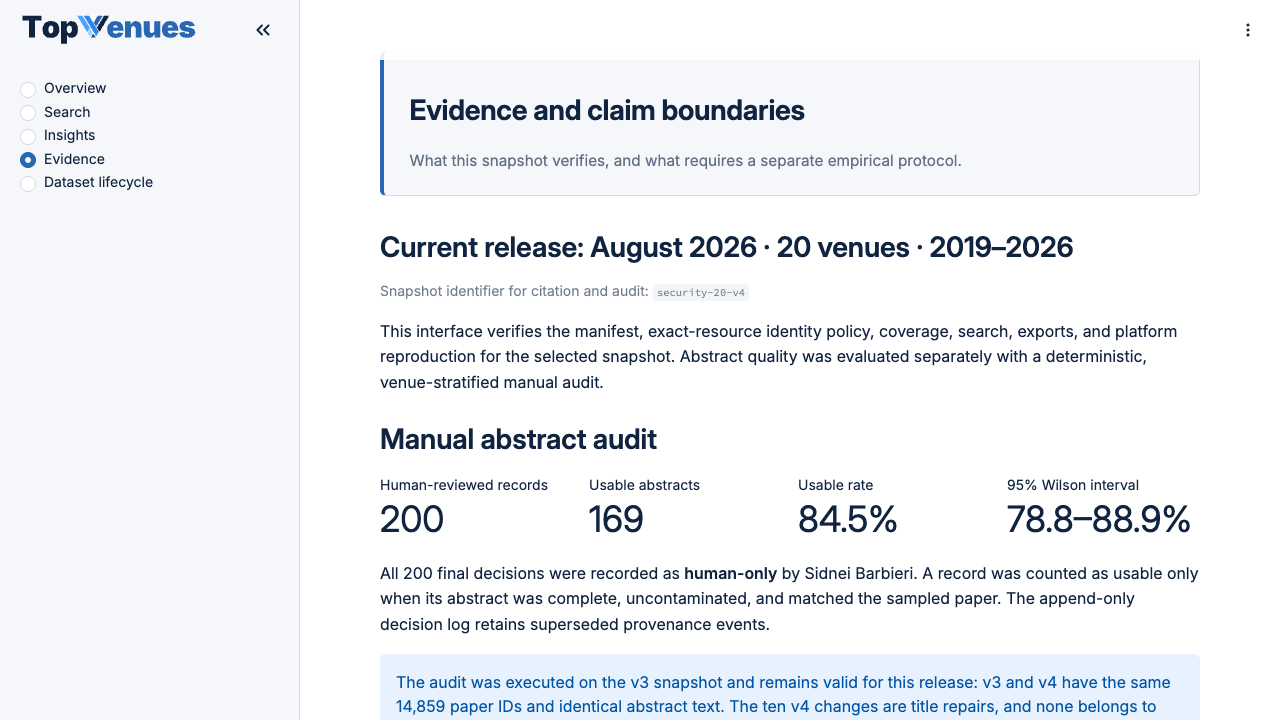
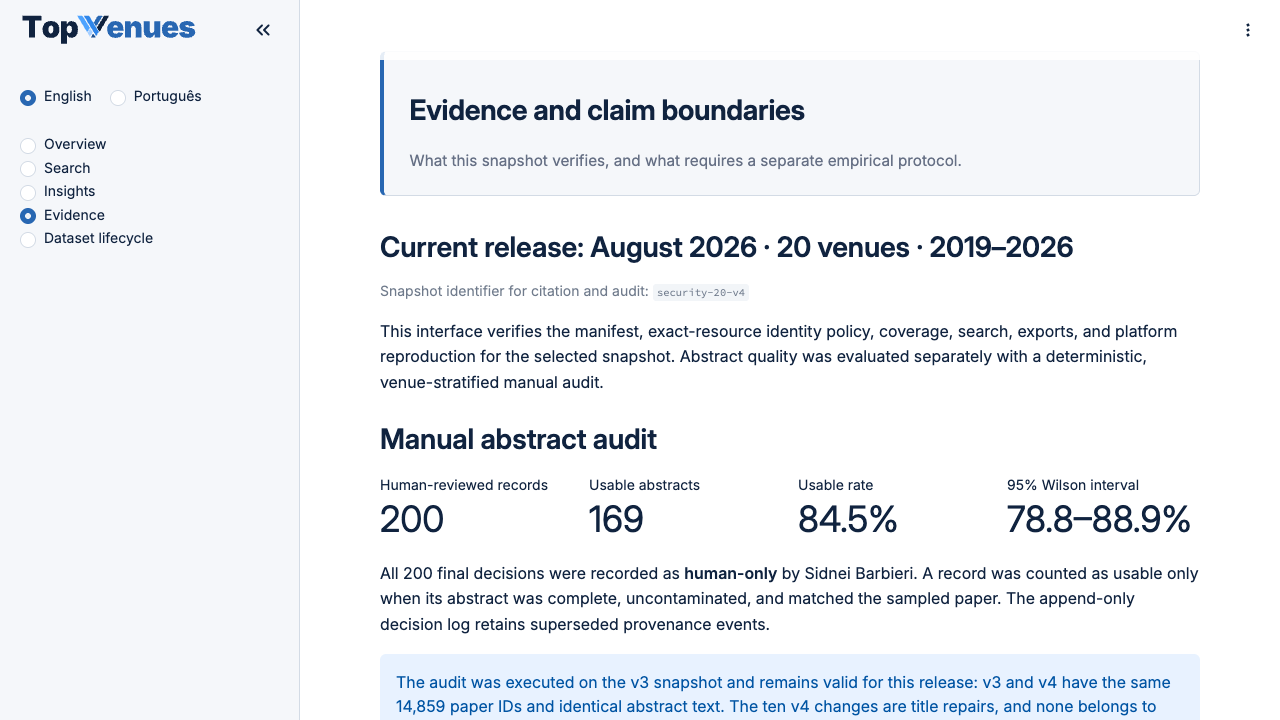
State which paper to cite as a rule, and release 1.13.0
Whoever used the tool cites the tools-track paper and names the release and
profile; whoever uses the corpus method or its measurements cites the
main-track paper; both when both apply. The README, README.pt-BR.md,
CITATION.cff and the landing page now say the same, and the landing lists
the tool paper first.

The screenshot script pins English, since the interface now opens in the
browser's language, and the screenshots show the language switch.

Changed region(s): [[0.0, 0.1222, 0.1562, 0.3361]]

diff --git a/site/template.html b/site/template.html
@@ -346,12 +346,12 @@
   <div class="wrap">
     <p class="sec-label"><span class="no">07</span><span data-l="en">Cite</span><span data-l="pt">Citar</span></p>
     <div>
-      <h2 id="cite-h"><span data-l="en">Cite the paper whose numbers you use.</span><span data-l="pt">Cite o artigo cujos números você usa.</span></h2>
-      <p class="sec-intro" data-l="en">Paper A for the corpus method and the measurements; Paper B for the tool. When you use the current release, also name the profile and its SHA-256.</p>
-      <p class="sec-intro" data-l="pt">O Artigo A para o método do corpus e as medições; o Artigo B para a ferramenta. Ao usar a versão atual, informe também o perfil e seu SHA-256.</p>
+      <h2 id="cite-h"><span data-l="en">Cite the tool paper, and name the release you used.</span><span data-l="pt">Cite o artigo da ferramenta e informe a versão que você usou.</span></h2>
+      <p class="sec-intro" data-l="en">Used TopVenues to search, build a review corpus, export references or rank authors? Cite Paper B, the tools-track paper, and name the release and profile, such as <code>v{{VERSION}} · {{PROFILE}}</code>, so a reader can reopen the same snapshot. Using or building on the corpus method or its measurements? Cite Paper A. When both apply, cite both.</p>
+      <p class="sec-intro" data-l="pt">Usou o TopVenues para buscar, montar o corpus de uma revisão, exportar referências ou ranquear autores? Cite o Artigo B, da trilha de ferramentas, e informe a versão e o perfil, como <code>v{{VERSION}} · {{PROFILE}}</code>, para que o leitor reabra o mesmo snapshot. Usa ou estende o método do corpus ou suas medições? Cite o Artigo A. Quando os dois se aplicam, cite os dois.</p>
       <div class="cite">
-        {{BIB_A}}
         {{BIB_B}}
+        {{BIB_A}}
       </div>
       <div class="star-panel">
         <p data-l="en">Found TopVenues useful? Cite it, and star the repository so that other researchers find it.</p>

diff --git a/site/build_site.py b/site/build_site.py
@@ -642,10 +642,14 @@ def page_values(release: Release, repository: Path, built_on: str) -> dict[str, 
         "{{PAPER_A}}": paper_card(PAPER_A),
         "{{PAPER_B}}": paper_card(PAPER_B),
         "{{BIB_A}}": code_block(
-            bibtex_entry("barbieri2026topvenues", PAPER_A), "Paper A", "Artigo A"
+            bibtex_entry("barbieri2026topvenues", PAPER_A),
+            "Paper A · method and measurements",
+            "Artigo A · método e medições",
         ),
         "{{BIB_B}}": code_block(
-            bibtex_entry("barbieri2026topvenuestool", PAPER_B), "Paper B", "Artigo B"
+            bibtex_entry("barbieri2026topvenuestool", PAPER_B),
+            "Paper B · using the tool",
+            "Artigo B · uso da ferramenta",
         ),
         "{{DEMO}}": DEMO_VIDEO,
         "{{GH}}": GITHUB,

diff --git a/scripts/capture_screenshots.py b/scripts/capture_screenshots.py
@@ -20,6 +20,9 @@ TOPIC = "LLM"
 SCOPE = "Security top-4"
 PREFERRED_AUTHOR = "Yang Zhang 0016"
 SETTLE_MS = 3500
+# The interface opens in the browser's language; the scenes click English
+# labels, so they pin English rather than inherit the machine's locale.
+LANGUAGE = "en"
 
 
 def open_page(page: Page, name: str) -> None:
@@ -150,7 +153,7 @@ def main() -> None:
         page = browser.new_page(
             viewport=VIEWPORT, device_scale_factor=1, color_scheme=arguments.scheme
         )
-        page.goto(arguments.url, wait_until="networkidle")
+        page.goto(f"{arguments.url}?lang={LANGUAGE}", wait_until="networkidle")
         page.wait_for_selector(".app-header", timeout=180_000)
         page.wait_for_timeout(2500)
         capture_overview(page, arguments.output)

diff --git a/src/__init__.py b/src/__init__.py
@@ -3,7 +3,7 @@
 A modern, async paper collection system with web interface.
 """
 
-__version__ = "1.12.0"
+__version__ = "1.13.0"
 
 from .collector import Collector
 from .models import (

diff --git a/README.md b/README.md
@@ -49,7 +49,7 @@
 Requires Python 3.11–3.14, Git, and Bash.
 
 ```bash
-git clone --depth 1 --branch v1.12.0 https://github.com/sidneibarbieri/topVenues.git
+git clone --depth 1 --branch v1.13.0 https://github.com/sidneibarbieri/topVenues.git
 cd topVenues
 bash reproduce.sh --profile security-20-v4
 ```
@@ -67,7 +67,7 @@ Use the native PowerShell workflow rather than editing the Unix script or mixing
 Git Bash and PowerShell environments:
 
 ```powershell
-git clone --depth 1 --branch v1.12.0 https://github.com/sidneibarbieri/topVenues.git
+git clone --depth 1 --branch v1.13.0 https://github.com/sidneibarbieri/topVenues.git
 cd topVenues
 powershell -ExecutionPolicy Bypass -File .\reproduce.ps1 -Profile security-20-v4
 ```
@@ -101,7 +101,7 @@ System, Light and Dark.
 
 | Property | Value |
 | --- | --- |
-| Tool release | `v1.12.0` |
+| Tool release | `v1.13.0` |
 | Profile | `security-20-v4` |
 | Snapshot source release | `v1.2.1` |
 | Scope | 20 declared security and security-relevant venues |
@@ -287,12 +287,19 @@ security = corpus.filter(lambda paper: paper["area"] == "security")
 
 ## Citation
 
-If TopVenues supports your research, cite the paper whose numbers you use, and
-star this repository so that other researchers can find it. The tools-track paper
-describes the tool and `security-20`; the main-track paper describes the corpus
-method and its measurements. GitHub's "Cite this repository" reads
-[CITATION.cff](CITATION.cff). When you use the current release, also name the
-profile and its SHA-256.
+If TopVenues supports your research, cite it, and star this repository so that
+other researchers can find it. Which paper to cite depends on what you used:
+
+| You… | Cite |
+| --- | --- |
+| used TopVenues to search, build a review corpus, export references or rank authors | the tools-track paper (`barbieri2026topvenuestool`), and name the release and profile, such as `TopVenues v1.13.0, profile security-20-v4` |
+| use or build on the corpus method or its measurements | the main-track paper (`barbieri2026topvenues`) |
+| did both | both |
+
+The paper gives the credit that indexes count; the release and profile tell a
+reader which snapshot you queried, and [docs/PAPERS.md](docs/PAPERS.md) binds
+each one to its SHA-256. GitHub's "Cite this repository" reads
+[CITATION.cff](CITATION.cff), which proposes the tools-track paper.
 
 ```bibtex
 @inproceedings{barbieri2026topvenues,

diff --git a/README.pt-BR.md b/README.pt-BR.md
@@ -630,6 +630,22 @@ foi removido; o valor corrente aparece na
 As contagens do corpus não mudaram: continuam 20.305 registros e 17.491 resumos,
 como as reivindicações #1 a #4 verificam.
 
+# Como citar
+
+Cite o artigo que corresponde ao que você usou:
+
+| Você… | Cite |
+| --- | --- |
+| usou o TopVenues para buscar, montar o corpus de uma revisão, exportar referências ou ranquear autores | o artigo da trilha de ferramentas (`barbieri2026topvenuestool`), informando a versão e o perfil, por exemplo `TopVenues v1.13.0, perfil security-20-v4` |
+| usa ou estende o método do corpus ou suas medições | o artigo da trilha principal (`barbieri2026topvenues`) |
+| fez as duas coisas | os dois |
+
+O artigo dá o crédito que os indexadores contam; a versão e o perfil dizem ao
+leitor qual snapshot foi consultado, e o [docs/PAPERS.md](docs/PAPERS.md) liga
+cada um ao seu SHA-256. As duas entradas BibTeX estão na seção
+[Citation](README.md#citation) do README em inglês e no
+[CITATION.cff](CITATION.cff).
+
 # LICENSE
 
 O código do TopVenues é distribuído sob a **licença MIT**, reproduzida em

diff --git a/CHANGELOG.md b/CHANGELOG.md
@@ -1,6 +1,6 @@
 # Changelog
 
-## 1.13.0 — unreleased
+## 1.13.0 — 2026-09-22
 
 - The interface speaks Brazilian Portuguese as well as English. It opens in the
   browser's language, the switch sits at the top of the sidebar, and
@@ -23,6 +23,11 @@
   decorator had left them uncached.
 - `scripts/build_extended_profile.py` builds a successor profile additively from
   a newer DBLP release, keeping every existing record byte-identical.
+- The citation guidance is a rule instead of a hint: whoever used the tool cites
+  the tools-track paper and names the release and profile; whoever uses the
+  corpus method or its measurements cites the main-track paper. The README,
+  `README.pt-BR.md`, `CITATION.cff` and the landing page say the same.
+- The documentation screenshots show the language switch.
 - No released profile changed; every profile and paper reproduces as before.
 
 ## 1.12.0 — 2026-09-22
